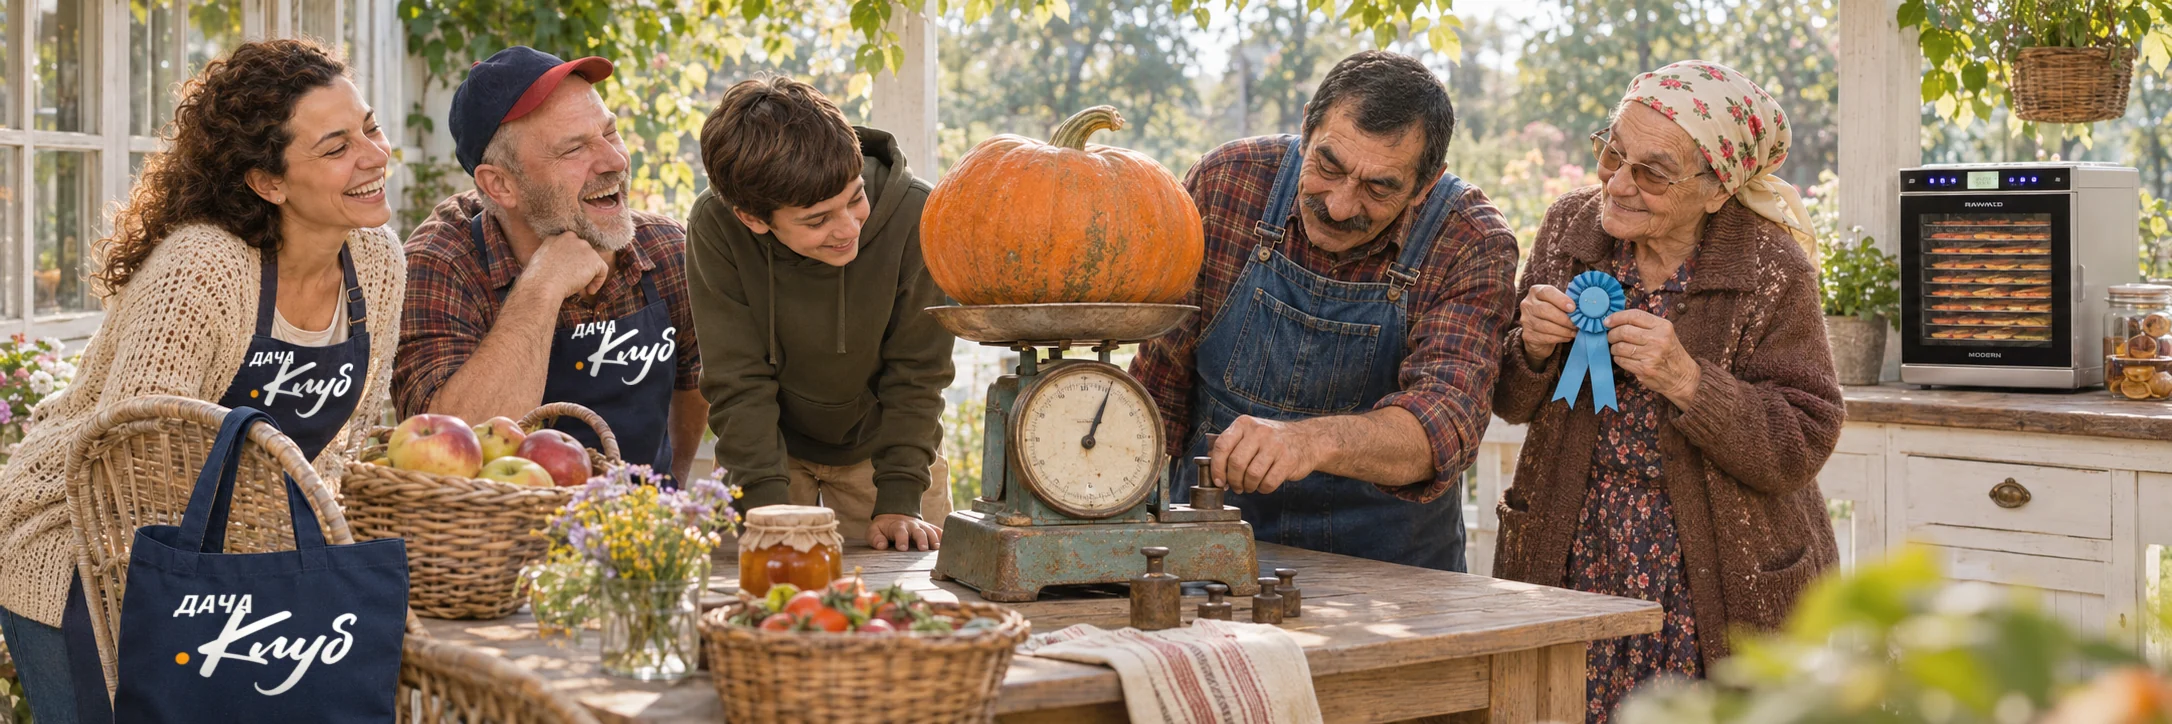
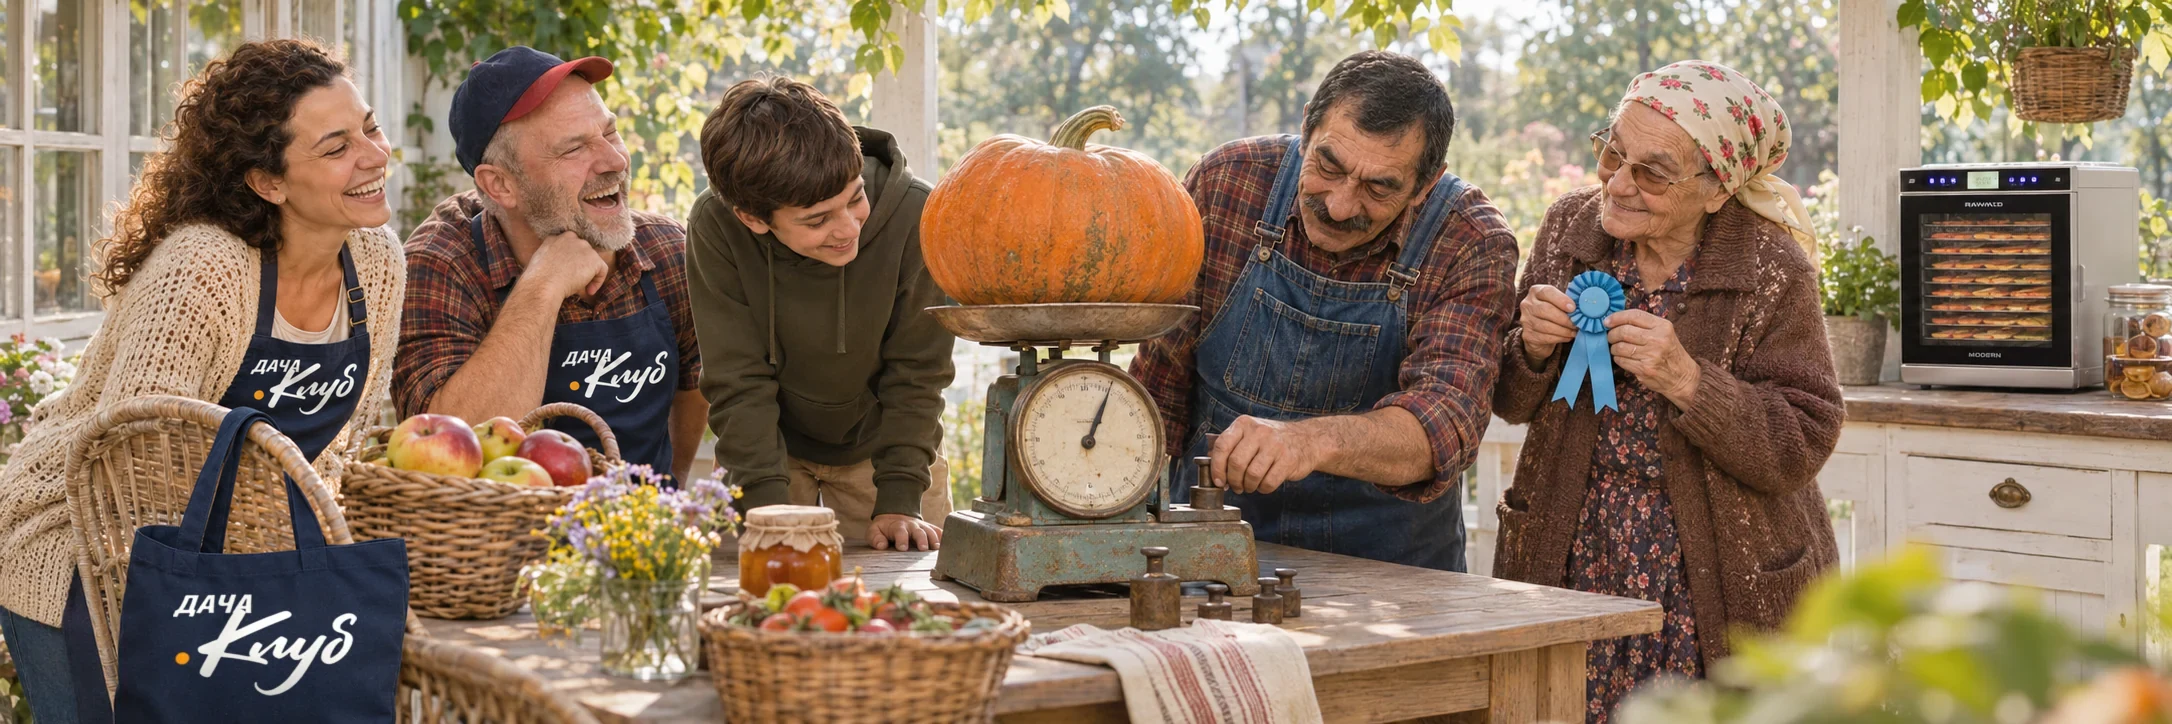
RAWMID: award-harvest — Dacha club sign on aprons per accepted v5 apron

diff --git a/work/rawmid-style.html b/work/rawmid-style.html
@@ -153,7 +153,7 @@ window.METRIKA_ID = 111837200; /* счётчик создан 21.08.2026 */
         <img src="../assets/rawmid-2026-v6-club-dacha-1.webp?v=42" width="2172" height="724" alt="ДАЧА: семья на веранде сушит яблоки в дегидраторе RAWMID" loading="lazy" decoding="async" data-cap="ДАЧА: урожай всей семьёй.">
         <img src="../assets/rawmid-2026-v6-club-zozh-1.webp" width="2172" height="724" alt="ЗОЖ: семья на кухне после пробежки, фруктовые чипсы из дегидратора RAWMID" loading="lazy" decoding="async" data-cap="ЗОЖ: утро после пробежки.">
         <img src="../assets/rawmid-2026-v6-award-recipe.webp?v=42" width="2172" height="724" alt="Награда RAW-клуба: подруги прикалывают повару розетку за лучший рецепт месяца" loading="lazy" decoding="async" data-cap="Награда за лучший рецепт.">
-        <img src="../assets/rawmid-2026-v6-award-harvest.webp?v=42" width="2172" height="724" alt="Награда ДАЧА-клуба: дедушка взвешивает тыкву внука, бабушка держит розетку" loading="lazy" decoding="async" data-cap="Награда за урожай.">
+        <img src="../assets/rawmid-2026-v6-award-harvest.webp?v=43" width="2172" height="724" alt="Награда ДАЧА-клуба: дедушка взвешивает тыкву внука, бабушка держит розетку" loading="lazy" decoding="async" data-cap="Награда за урожай.">
         <img src="../assets/rawmid-2026-v6-award-advice.webp?v=41" width="2172" height="724" alt="Награда ЗОЖ-клуба: дочь вручает отцу розетку за совет месяца, семья аплодирует" loading="lazy" decoding="async" data-cap="Награда за совет месяца.">
       </div>
       <div class="m2-ctrl">

diff --git a/en/work/rawmid-style.html b/en/work/rawmid-style.html
@@ -152,7 +152,7 @@ window.METRIKA_ID = 111837200; /* счётчик создан 21.08.2026 */
         <img src="../../assets/rawmid-2026-v6-club-dacha-1.webp?v=42" width="2172" height="724" alt="Garden: the family on the veranda dries apples in a RAWMID dehydrator" loading="lazy" decoding="async" data-cap="Garden: the harvest, all together.">
         <img src="../../assets/rawmid-2026-v6-club-zozh-1.webp" width="2172" height="724" alt="Healthy living: the family in the kitchen after a run, fruit chips from a RAWMID dehydrator" loading="lazy" decoding="async" data-cap="Healthy living: the morning after a run.">
         <img src="../../assets/rawmid-2026-v6-award-recipe.webp?v=42" width="2172" height="724" alt="RAW club award: friends pin a rosette on the cook for the recipe of the month" loading="lazy" decoding="async" data-cap="Award for the best recipe.">
-        <img src="../../assets/rawmid-2026-v6-award-harvest.webp?v=42" width="2172" height="724" alt="Garden club award: grandpa weighs his grandson’s pumpkin, grandma holds the rosette" loading="lazy" decoding="async" data-cap="Award for the harvest.">
+        <img src="../../assets/rawmid-2026-v6-award-harvest.webp?v=43" width="2172" height="724" alt="Garden club award: grandpa weighs his grandson’s pumpkin, grandma holds the rosette" loading="lazy" decoding="async" data-cap="Award for the harvest.">
         <img src="../../assets/rawmid-2026-v6-award-advice.webp?v=41" width="2172" height="724" alt="Healthy living club award: the daughter gives her father a rosette for the tip of the month" loading="lazy" decoding="async" data-cap="Award for the tip of the month.">
       </div>
       <div class="m2-ctrl">
